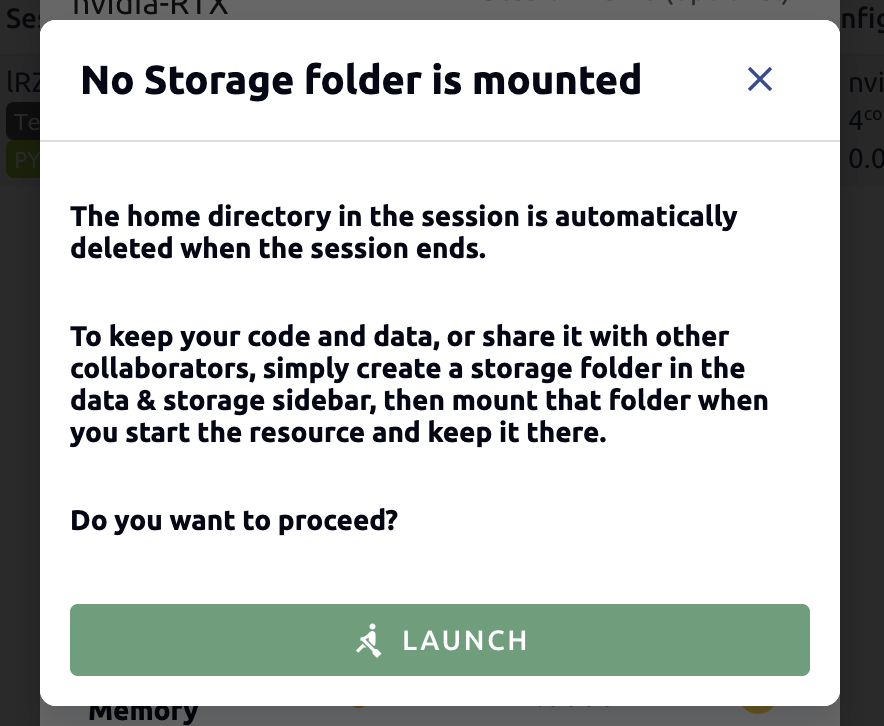
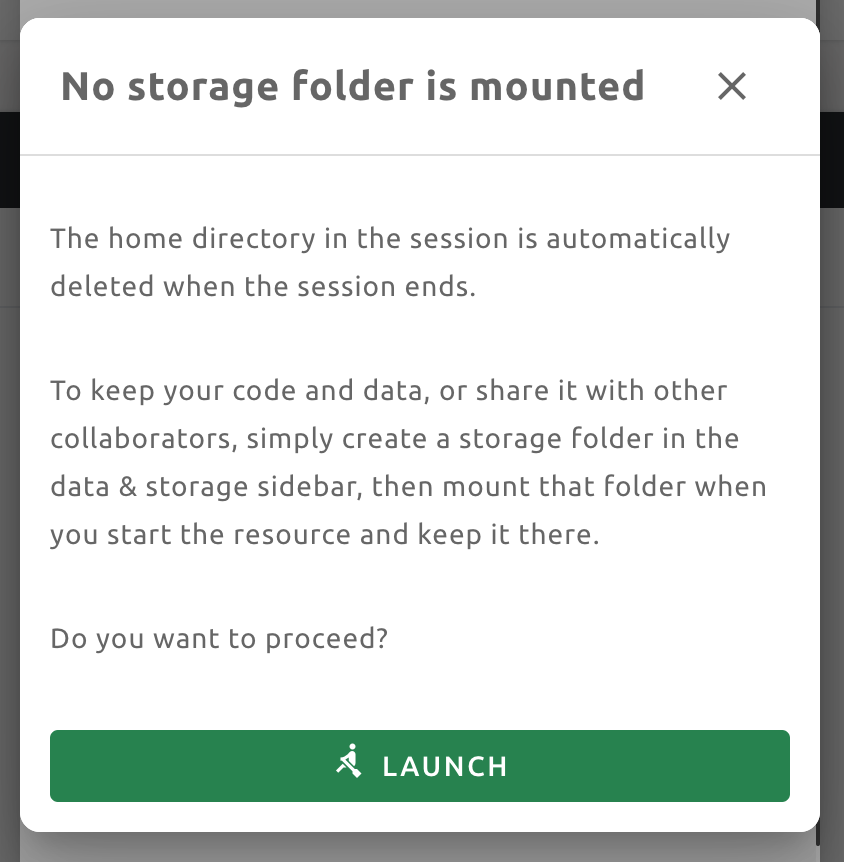
docs: revamp session creation section
Session creation dialog is changed to wizard-like style.

diff --git a/docs/sessions_all/sessions_all.rst b/docs/sessions_all/sessions_all.rst
@@ -15,69 +15,112 @@ Sessions page lets you start new sessions or use and manage existing running ses
 
 .. image:: sessions_page.png
 
-Click the START button to start a new compute session. The following setup
-dialog will appear. You can specify the language environment (Environments and
-Version) and the amount of resources you want to allocate. Set the CPU and memory as shown in
-the following figure and click the LAUNCH button.
+Click the START button to start a new compute session. The following
+wizard-style dialog will appear.
 
-.. image:: session_launch_dialog.png
+.. image:: session_launch_dialog_1.png
    :width: 350
    :align: center
 
-If you need more detailed settings, refer to the meaning of each items.
+First, you need to choose the language Environment and Version you want to
+create.  The rest items are optional. For a detailed description of each item,
+please refer to the following.
 
-* Environments: Specify the default environment for compute sessions such as
-  TensorFlow, PyTorch, C++, etc. When you select a TensorFlow environment,
-  your compute session will automatically include the TensorFlow library.
-  If you select another environment, the corresponding environment is installed
-  by default.
-* Version: Selects the version of the environment. For TensorFlow
-  environment, for example, you can select different versions such as 1.15, 2.3, etc.
-* Resource Group: Specifies the resource group in which to create the compute
-  session. If there are multiple resource groups, you can select the desired
-  one, but if there is only one resource group, it cannot be changed.
-* Session name (optional): Specifies the name of the compute session to be
-  created. If specified, this name appears in Session Info, making it easy to
-  distinguish it from other compute sessions. If not specified, a
-  randomly-generated name is assigned. You can set the session name up to 4 to
-  64 characters only with alphabetical characters or numbers and no spaces
-  are allowed.
-* Folder to mount: Specifies the data folders to be mounted in the compute
-  session. When a compute session is deleted, all data is deleted
-  altogether by default, but the data stored in the folder mounted here is not deleted.
-* Set Environment Variable: Provides customized environment variable before creating a session.
-* Resource allocation: This is a template that has predefined resources to be
-  allocated to the compute session. You can save and use frequently used
-  resource settings in advance. Resource templates can be managed in a dedicated
-  admin Control-Panel.
+* Environments: You can choose the base environment for compute sessions such as
+  TensorFlow, PyTorch, C++, etc. When you select TensorFlow, your compute
+  session will automatically include the TensorFlow library. If you choose
+  another environment, the corresponding packages will be installed by default.
+* Version: Selects the version of the environment. For example, you can select
+  different versions, such as 1.15, 2.3, etc., for the TensorFlow environment.
+* Session name: You can specify the name of the compute session to be
+  created. If set, this name appears in Session Info, so it is easy to
+  distinguish among multiple computation sessions. If not specified, a random
+  word is assigned automatically. Session names only accept alphanumeric
+  characters between 4 and 64 without spaces.
+* Set Environment Variable: Provides an interface for users to set environment
+  variables in a compute session. See the section
+  :ref:`How to add environment variables before session creation<set-environment-variables>`
+  on how to use.
+
+Click the right arrow button at the bottom to advance to the next page. You can
+also launch a compute session directly by clicking the CONFIRM AND LAUNCH
+button. In this case, the settings on the other pages will all use the default
+values.
+
+.. image:: session_launch_dialog_2.png
+   :width: 350
+   :align: center
+
+Here, you can specify the data folders to mount in the compute session. When a
+compute session is destroyed, all data is deleted altogether by default, but the
+data stored in the mounted folders will survive. Data in those folders can also
+be reused by mounting it when creating another compute session. For the
+information on how to mount a folder and run a compute session, see
+:ref:`Mounting Folders to a Compute Session<session-mounts>`. Here, we will pass
+by without mounting any folder. Click the right arrow button.
+
+.. image:: session_launch_dialog_3.png
+   :width: 350
+   :align: center
+
+This page allows you to set the resources to be allocated for the new compute
+session.
+
+* Resource Group: Specifies the resource group in which to create a compute
+  session. A resource group is a unit that groups host servers that each user
+  can access. Usually, servers in a resource group would have the same type of
+  GPU resources. Administrators can classify servers by any criteria, group them
+  into one or more resource groups, and configure which resource groups a user
+  can use. Users can launch a compute session only on servers in resource groups
+  allowed by the administrator. If you are allowed multiple resource groups, you
+  can select any group you want, but you cannot change it if you have only one.
+* Resource allocation: These templates have pre-defined resource sets, such as
+  CPU, memory, and GPU, to be allocated to a compute session. Administrators can
+  define frequently used resource settings in advance.
+
+If you want to allocate every resource by yourself, click Custom allocation.
+The following advanced resource panel opens, and you can set each resource as
+you wish within the allowed resource limits.
+
+.. image:: session_launch_dialog_3-custom-alloc.png
+   :width: 350
+   :align: center
+
+The meaning of each item is as follows, and you can check it by clicking the
+Information (I) button on the right as well.
+
 * CPU: The number of CPU cores to allocate to the compute session. The maximum
   value depends on the resource policy applied to the user.
 * RAM: The amount of memory (GB) to allocate to the compute session. The
   maximum value depends on the resource policy applied to the user.
-* Shared Memory: The amount of shared memory (GB) to allocate to the
-  compute session. It can be set up to 2 GB by default (can be configured by
-  admins)and cannot be greater than the amount specified in RAM.
+* Shared Memory: The amount of shared memory in GB to allocate for the compute
+  session. Shared memory will use some part of the memory set in RAM. Therefore,
+  it cannot be greater than the amount specified in RAM.
 * GPU: The unit of GPU to allocate to the compute session. The maximum value
   depends on the resource policy applied to the user.
 * Sessions: The number of compute sessions to be created with the specified
-  settings. You can specify this value when you need to create the same computational
-  sessions at once.
+  settings. You can specify this value when you need to create the same
+  compute sessions at once.
 
-If no folder is specified in "Folders to mount", a warning dialog may
-appear indicating that no storage folder is mounted.
+If you are done with the resource setting, click the right arrow button to
+proceed to the next page.
+
+.. image:: session_launch_dialog_4.png
+   :width: 350
+   :align: center
+
+Now, we have reached the last page. You can view information such as allocated
+resources, mount information, environment variables set on the previous pages,
+etc. After confirming the settings, click the LAUNCH button. If there is a
+setting you want to change, you can return to the previous page by clicking the
+left arrow button.
 
 .. image:: no_vfolder_notification_dialog.png
    :width: 350
    :align: center
-   :alt: Notification dialog when no storage folder is mounted to the session
 
-You may ignore the warning, but it is recommended to mount
-at least one storage folder because terminating a compute session by
-default deletes all the data inside the session. If you specify a folder to mount
-and save your data in that folder, you can keep the data even if the compute
-session is terminated. Data preserved in the storage folder can also be reused
-by re-mounting it when creating another compute session. For the information on how
-to mount a folder and run a compute session, see :ref:`Mounting Folders to a Compute Session<session-mounts>`.
+A warning dialog appears, stating that there are no mounted folders. Ignore the
+warning for now and click the LAUNCH button to proceed.
 
 Now a new compute session is created in the RUNNING tab.
 
@@ -246,6 +289,8 @@ to the mounted folder or upload it to the mounted folder from the beginning if y
    :width: 400
    :align: center
 
+
+.. _set-environment-variables:
 
 How to add environment variable before creating a session
 ---------------------------------------------------------
